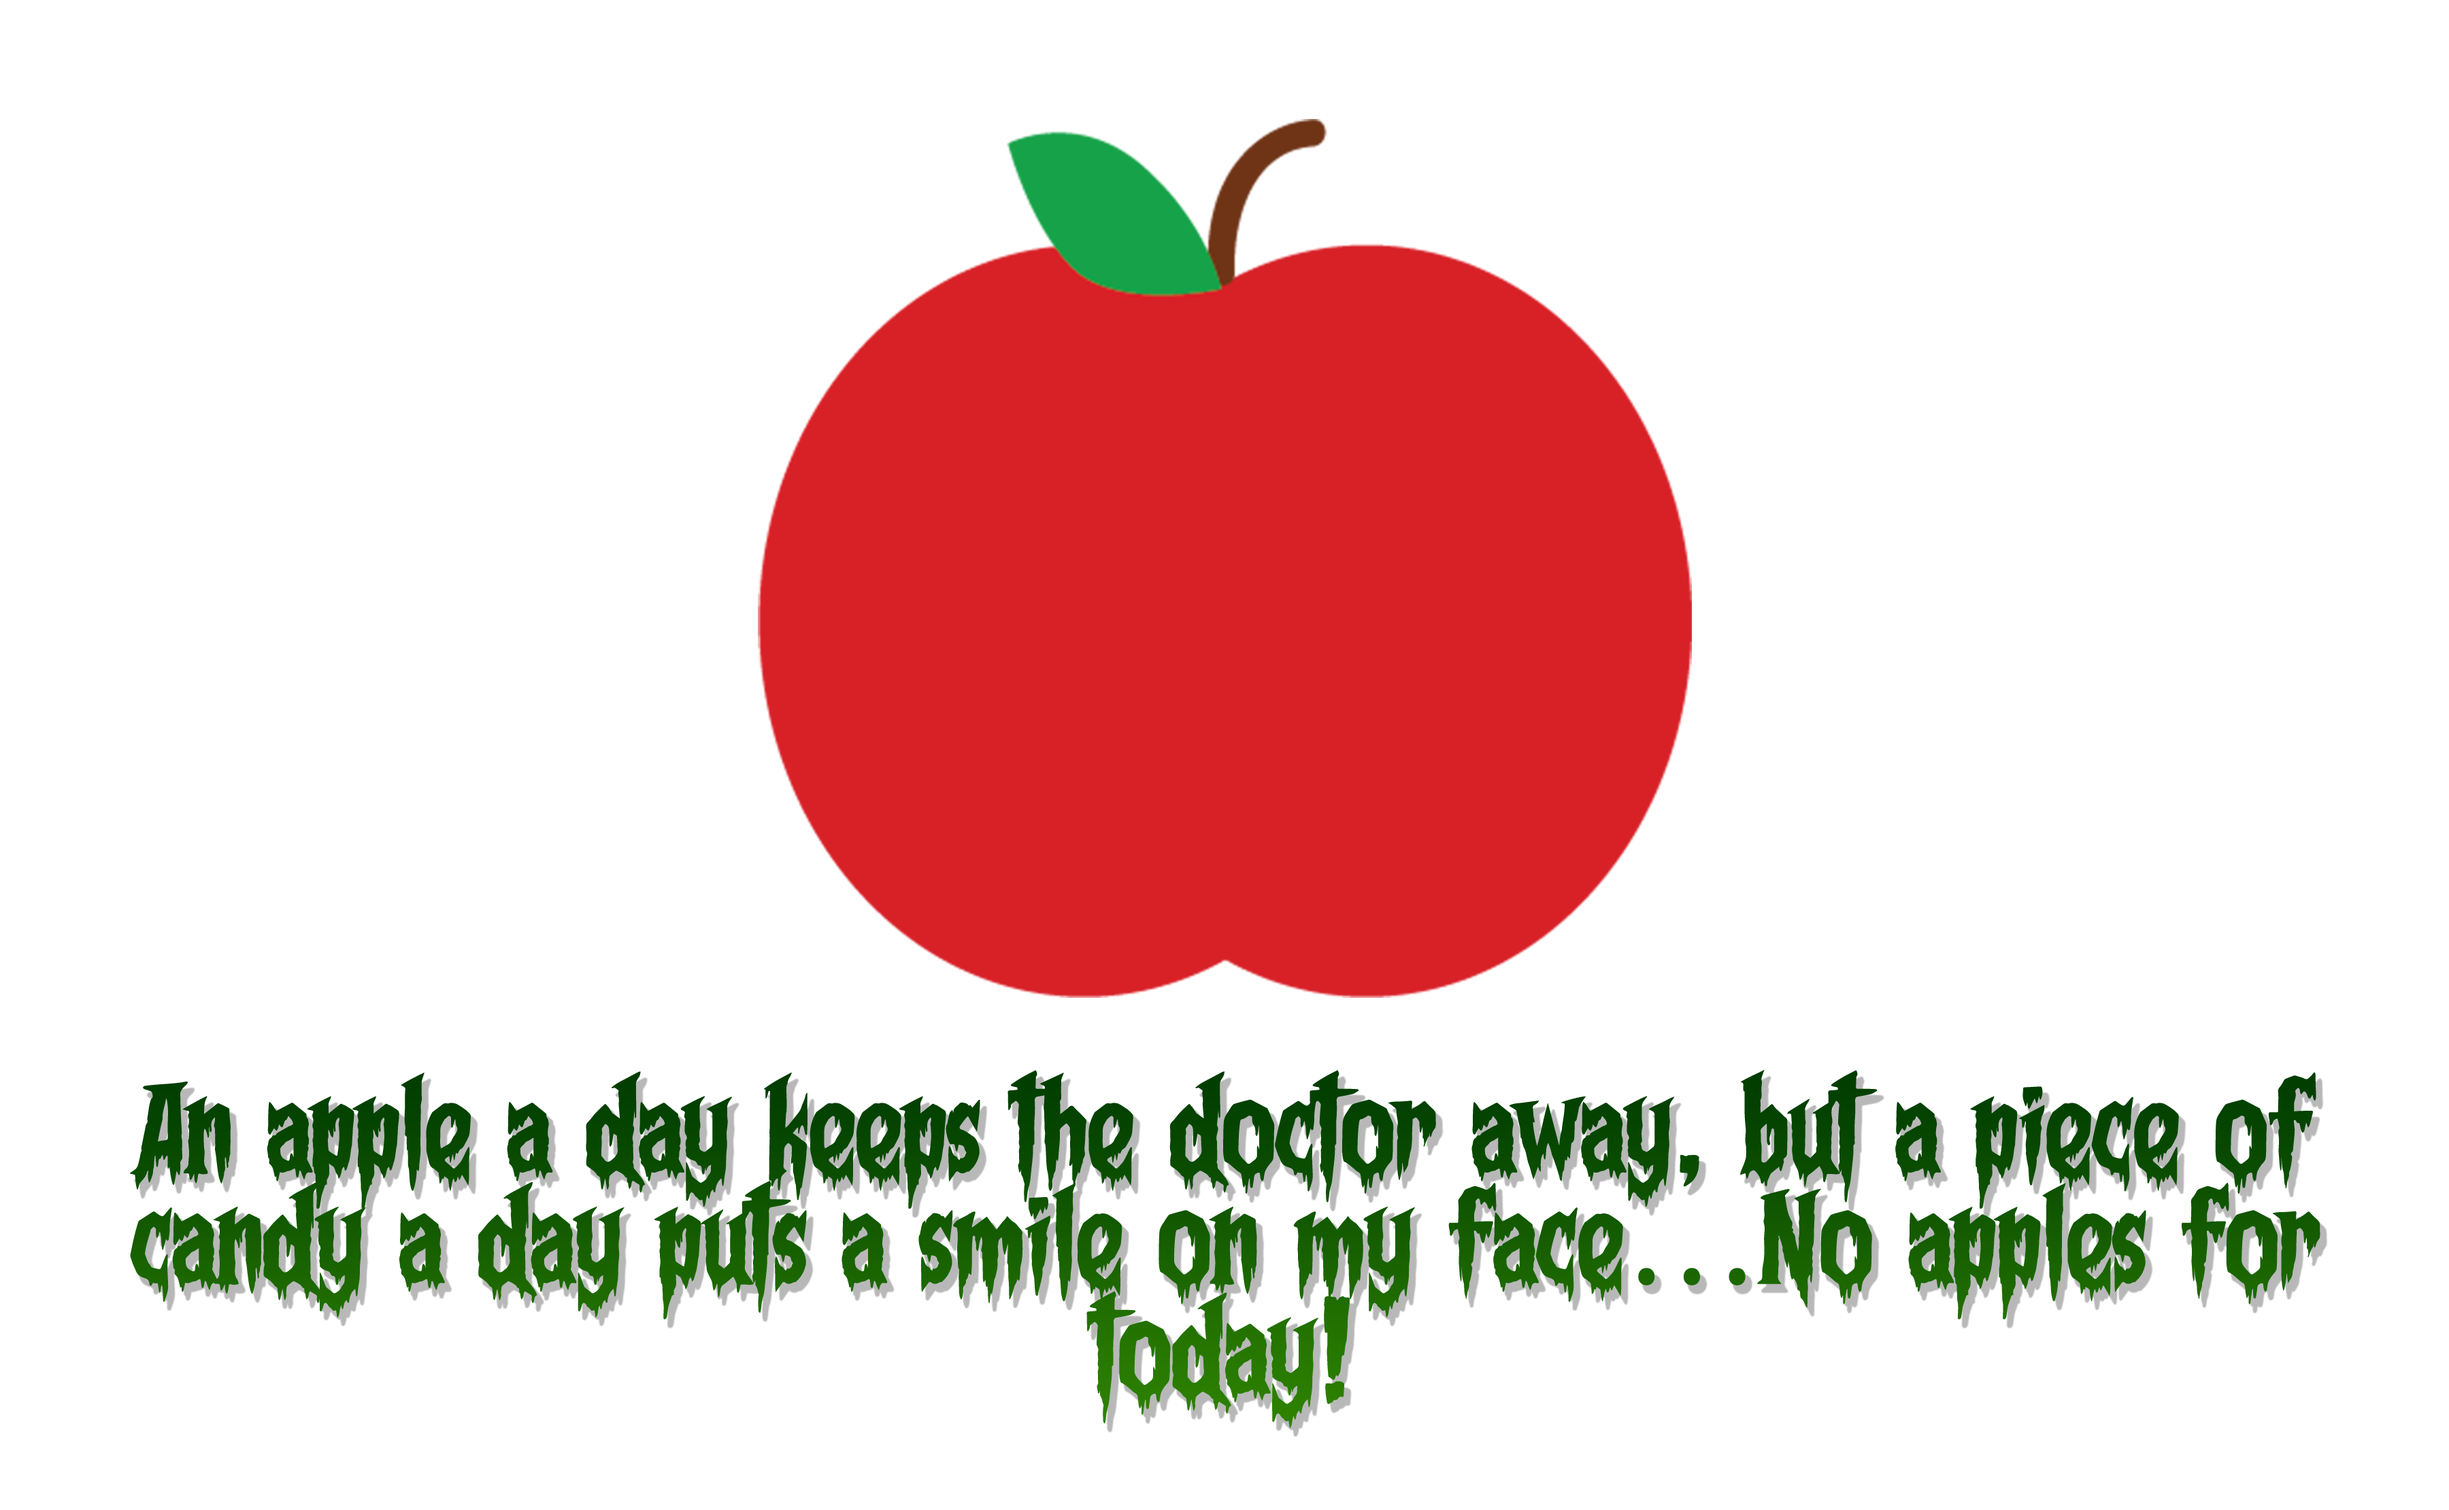
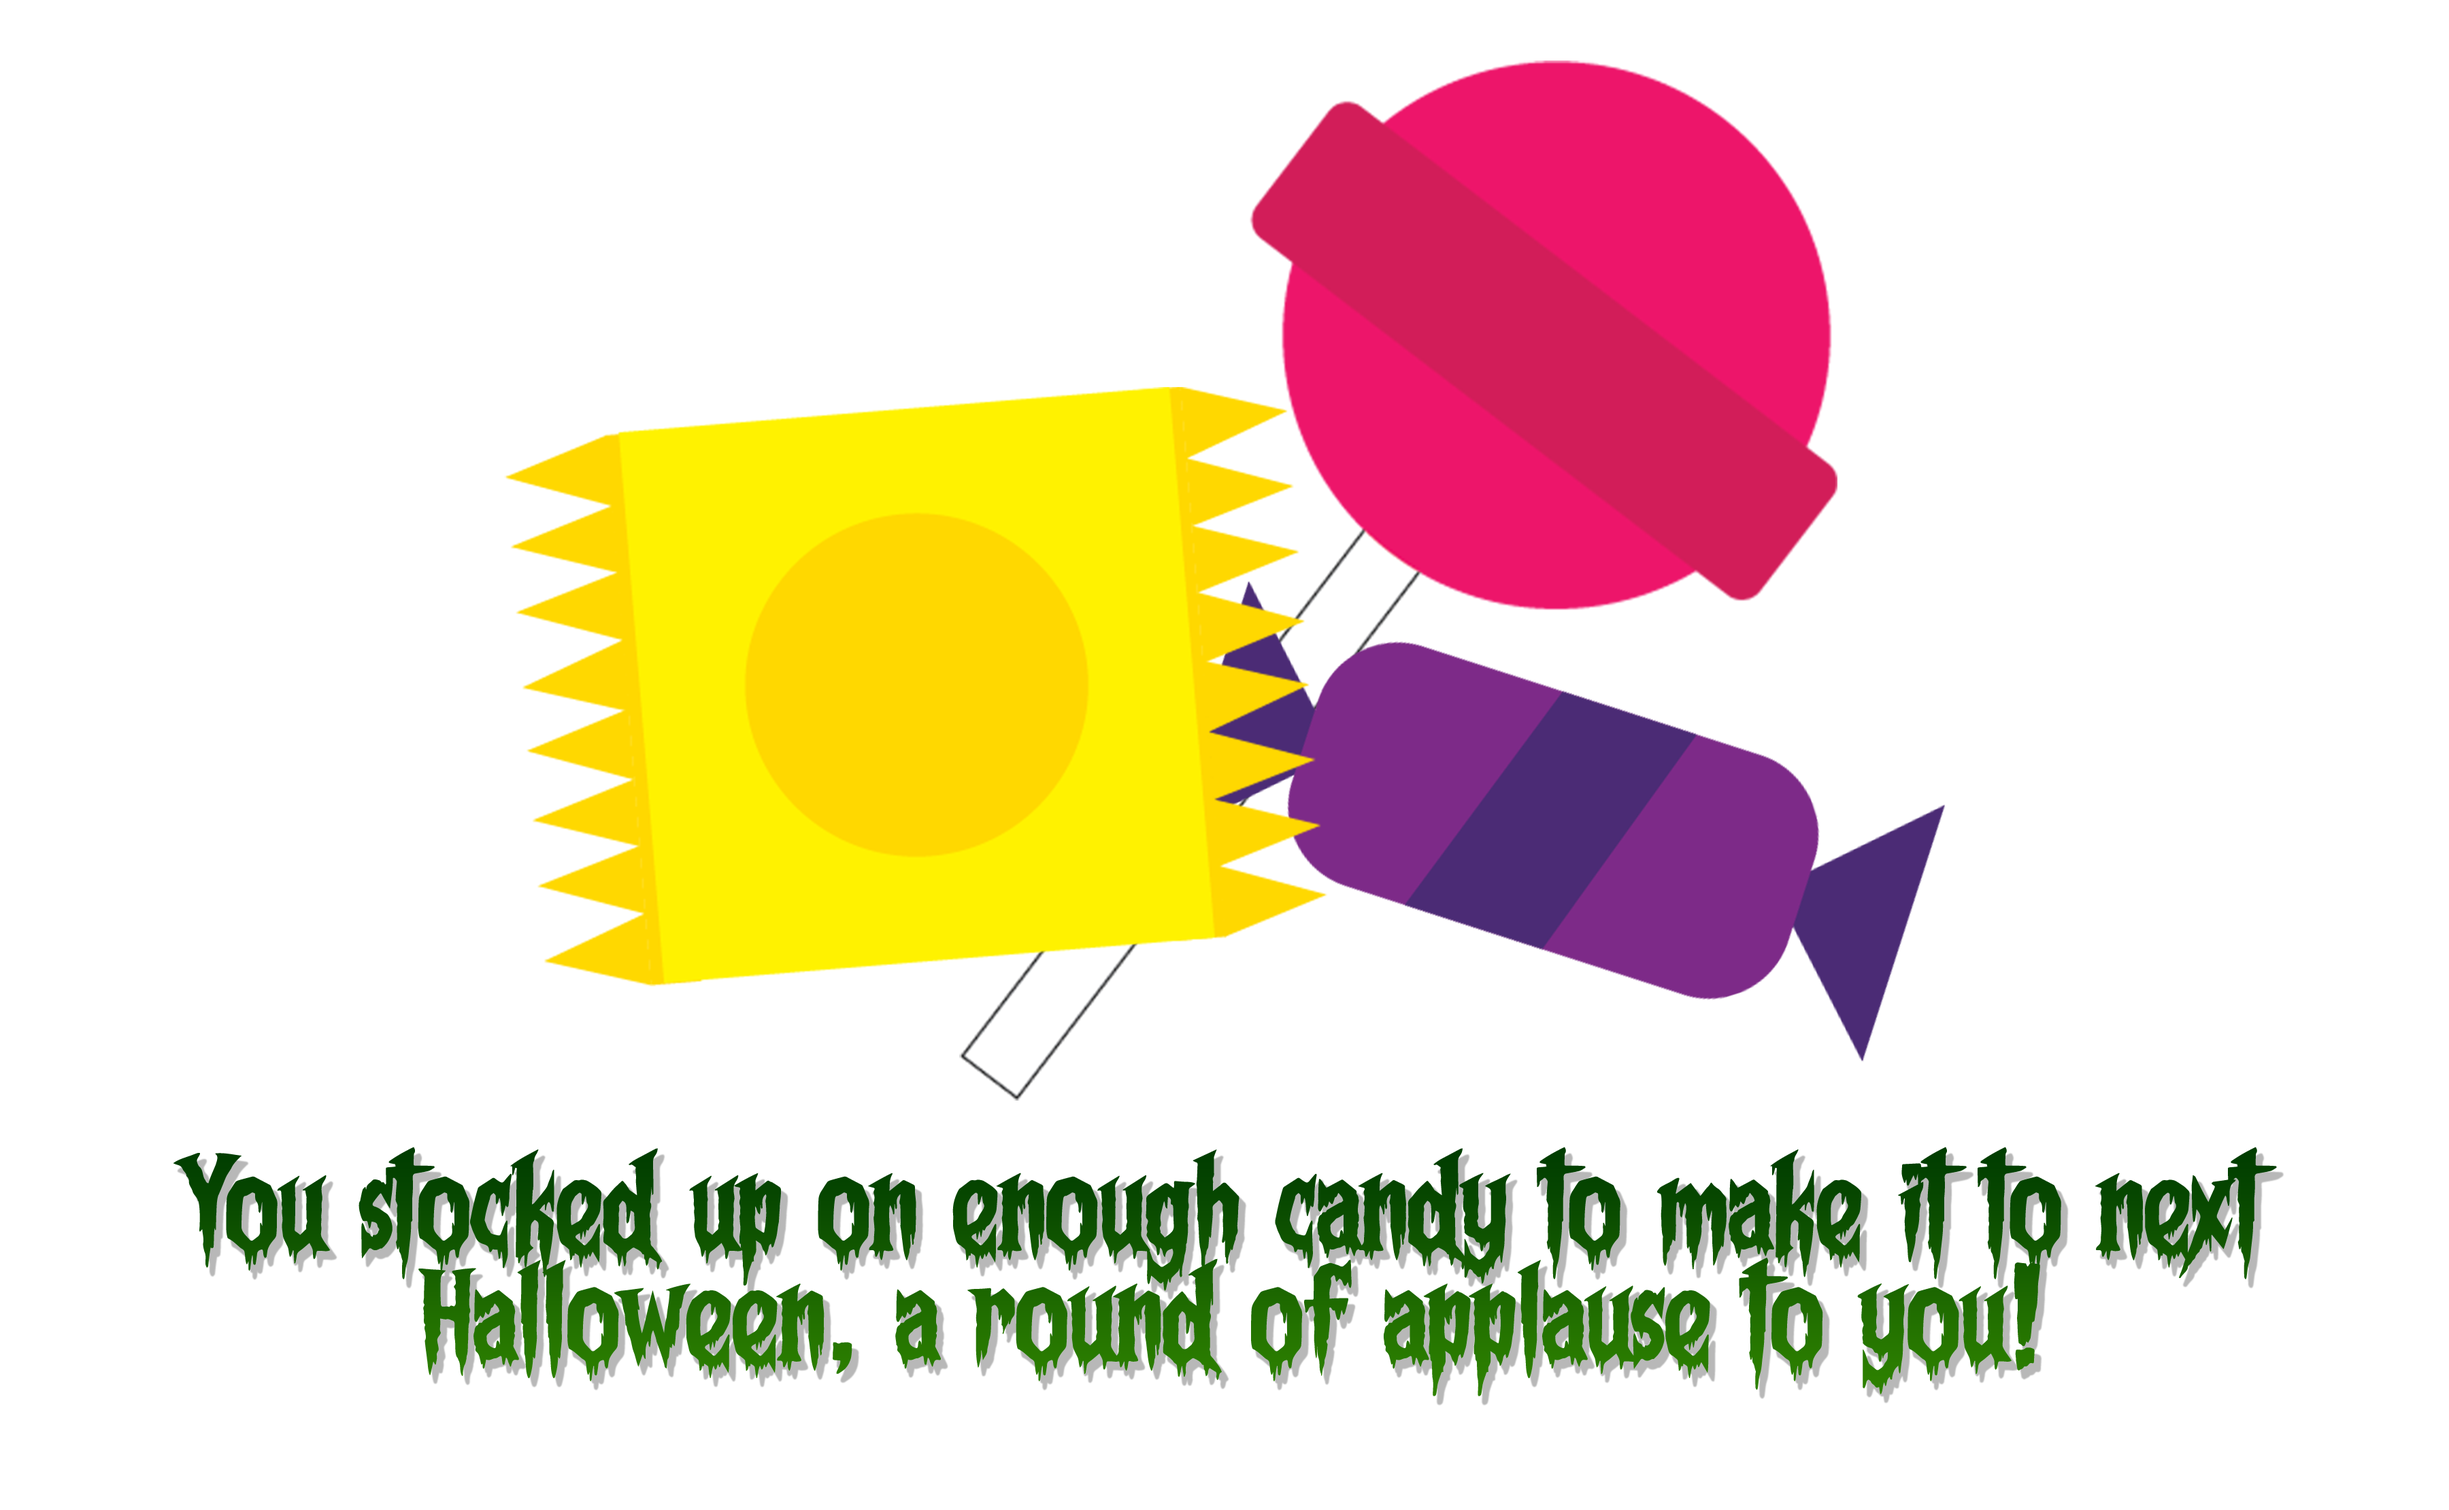
E4: Added candy end image

diff --git a/exercises/age-of-aquariums/js/script.js b/exercises/age-of-aquariums/js/script.js
@@ -18,6 +18,7 @@ let bg;
 let startImage;
 let appleendImage;
 let brushendImage;
+let candyendImage;
 
 // Our user, to move with the mouse
 let user = {
@@ -36,8 +37,9 @@ function preload() {
   appleImage = loadImage("assets/images/apple.png");
   brushImage = loadImage("assets/images/toothbrush.png");
   startImage = loadImage("assets/images/start.png");
-  appleendImage = loadImage("assets/images/end1.png");
-  brushendImage = loadImage("assets/images/end2.png");
+  brushendImage = loadImage("assets/images/end1.png");
+  candyendImage = loadImage("assets/images/end2.png");
+  appleendImage = loadImage("assets/images/end3.png");
 }
 
 let state = `title`; // Can be: title, simulation, end1, end2
@@ -150,6 +152,12 @@ let brushend = {
   height: 100,
 };
 
+let candyend = {
+  x: 0,
+  y: 0,
+  width: 100,
+  height: 100,
+};
 
 function draw() {
   background(bg);
@@ -192,9 +200,7 @@ function end1() {
 }
 
 function end2() {
-  fill(255);
-  textAlign(CENTER, CENTER);
-  text(`Watch Yumi's Cells every`, width / 2, 385);
+  displayEnd2();
 }
 
 function end3() {
@@ -422,7 +428,7 @@ function displayEnd1() {
 }
 
 function displayEnd2() {
-
+  image(candyendImage, candyend.x, candyend.y, windowWidth, windowHeight);
 }
 
 function displayEnd3() {
